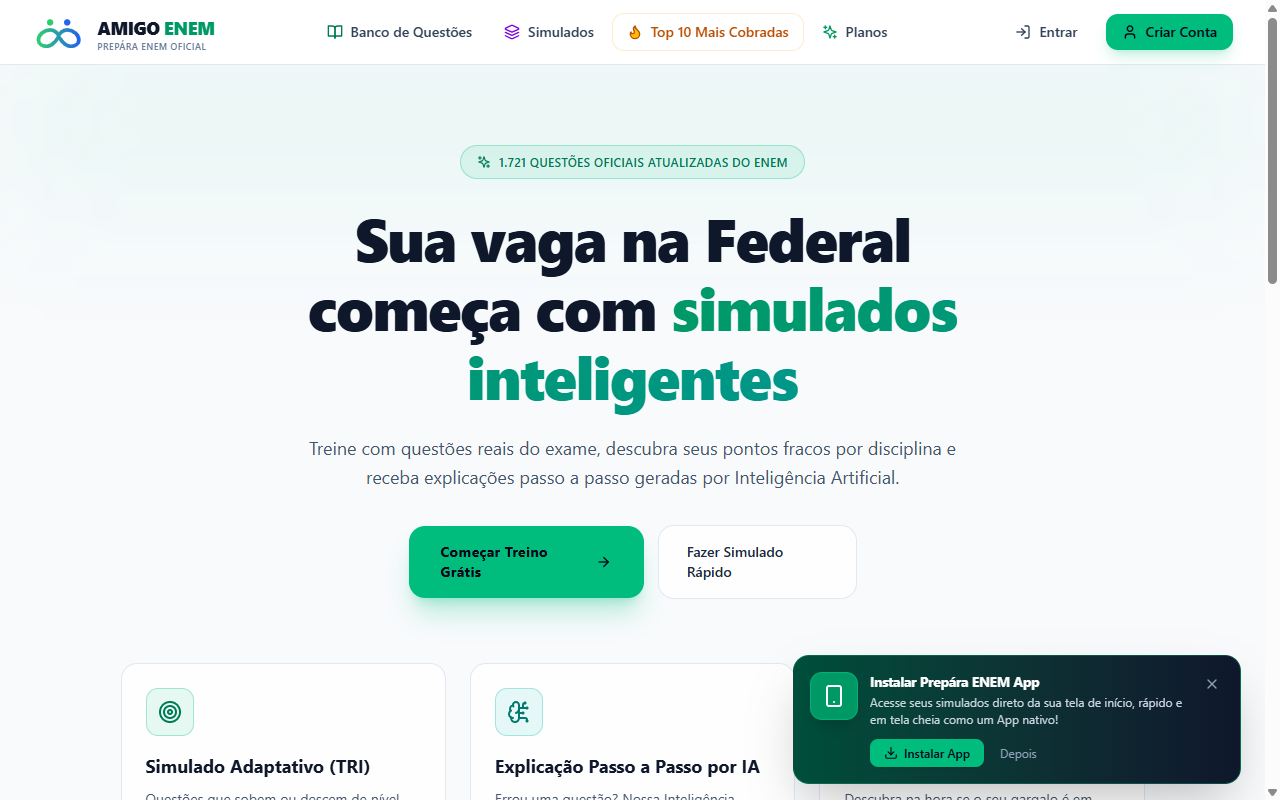
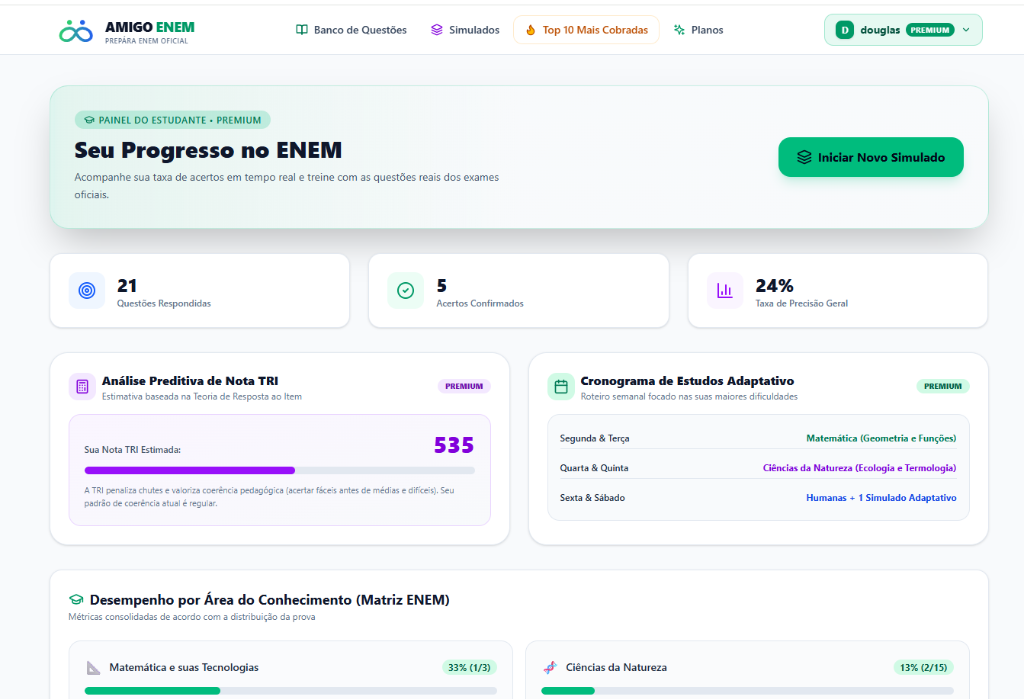
feat: remover barras dark superiores e aplicar fotos exatas do painel do enem e diagnostico territorial do geo

diff --git a/src/app/page.tsx b/src/app/page.tsx
@@ -349,22 +349,11 @@ export default function HomePage() {
 
             {/* Imagem Real do Sistema ENEM */}
             <div className="lg:col-span-6">
-              <div className="relative rounded-3xl p-2.5 bg-gradient-to-b from-slate-200 to-slate-300/80 shadow-2xl border border-slate-200 overflow-hidden group">
-                <div className="bg-slate-900 rounded-2xl p-2 flex items-center justify-between text-xs text-slate-300 mb-2 px-4">
-                  <div className="flex items-center gap-2">
-                    <span className="w-2.5 h-2.5 rounded-full bg-red-500"></span>
-                    <span className="w-2.5 h-2.5 rounded-full bg-yellow-500"></span>
-                    <span className="w-2.5 h-2.5 rounded-full bg-green-500"></span>
-                    <span className="font-mono text-[11px] text-slate-400 ml-2">enem.portalamigo.com.br</span>
-                  </div>
-                  <span className="text-[10px] font-bold px-2 py-0.5 rounded bg-emerald-500/20 text-emerald-400">
-                    Interface Real em Produção
-                  </span>
-                </div>
-                <div className="relative rounded-xl overflow-hidden border border-slate-200 bg-white shadow-inner">
+              <div className="relative rounded-3xl p-2 bg-white shadow-2xl border border-slate-200/80 overflow-hidden group">
+                <div className="relative rounded-2xl overflow-hidden border border-slate-100 bg-white">
                   <img
                     src="/screenshot-enem.png"
-                    alt="Interface Real do Prepára ENEM"
+                    alt="Painel Real do Estudante - Prepára ENEM"
                     className="w-full h-auto object-cover object-top transition-transform duration-500 group-hover:scale-[1.02]"
                     loading="lazy"
                   />
@@ -381,22 +370,11 @@ export default function HomePage() {
           <div className="grid grid-cols-1 lg:grid-cols-12 gap-12 items-center">
             {/* Imagem Real do Sistema GEO */}
             <div className="lg:col-span-6 order-2 lg:order-1">
-              <div className="relative rounded-3xl p-2.5 bg-gradient-to-b from-slate-200 to-slate-300/80 shadow-2xl border border-slate-200 overflow-hidden group">
-                <div className="bg-slate-900 rounded-2xl p-2 flex items-center justify-between text-xs text-slate-300 mb-2 px-4">
-                  <div className="flex items-center gap-2">
-                    <span className="w-2.5 h-2.5 rounded-full bg-red-500"></span>
-                    <span className="w-2.5 h-2.5 rounded-full bg-yellow-500"></span>
-                    <span className="w-2.5 h-2.5 rounded-full bg-green-500"></span>
-                    <span className="font-mono text-[11px] text-slate-400 ml-2">geo.portalamigo.com.br</span>
-                  </div>
-                  <span className="text-[10px] font-bold px-2 py-0.5 rounded bg-orange-500/20 text-orange-400">
-                    Interface Real em Produção
-                  </span>
-                </div>
-                <div className="relative rounded-xl overflow-hidden border border-slate-200 bg-white shadow-inner">
+              <div className="relative rounded-3xl p-2 bg-white shadow-2xl border border-slate-200/80 overflow-hidden group">
+                <div className="relative rounded-2xl overflow-hidden border border-slate-100 bg-white">
                   <img
-                    src="/screenshot-geo-home.png"
-                    alt="Interface Real do Amigo Geo"
+                    src="/screenshot-geo.png"
+                    alt="Diagnóstico Territorial Real - Amigo Geo"
                     className="w-full h-auto object-cover object-top transition-transform duration-500 group-hover:scale-[1.02]"
                     loading="lazy"
                   />
